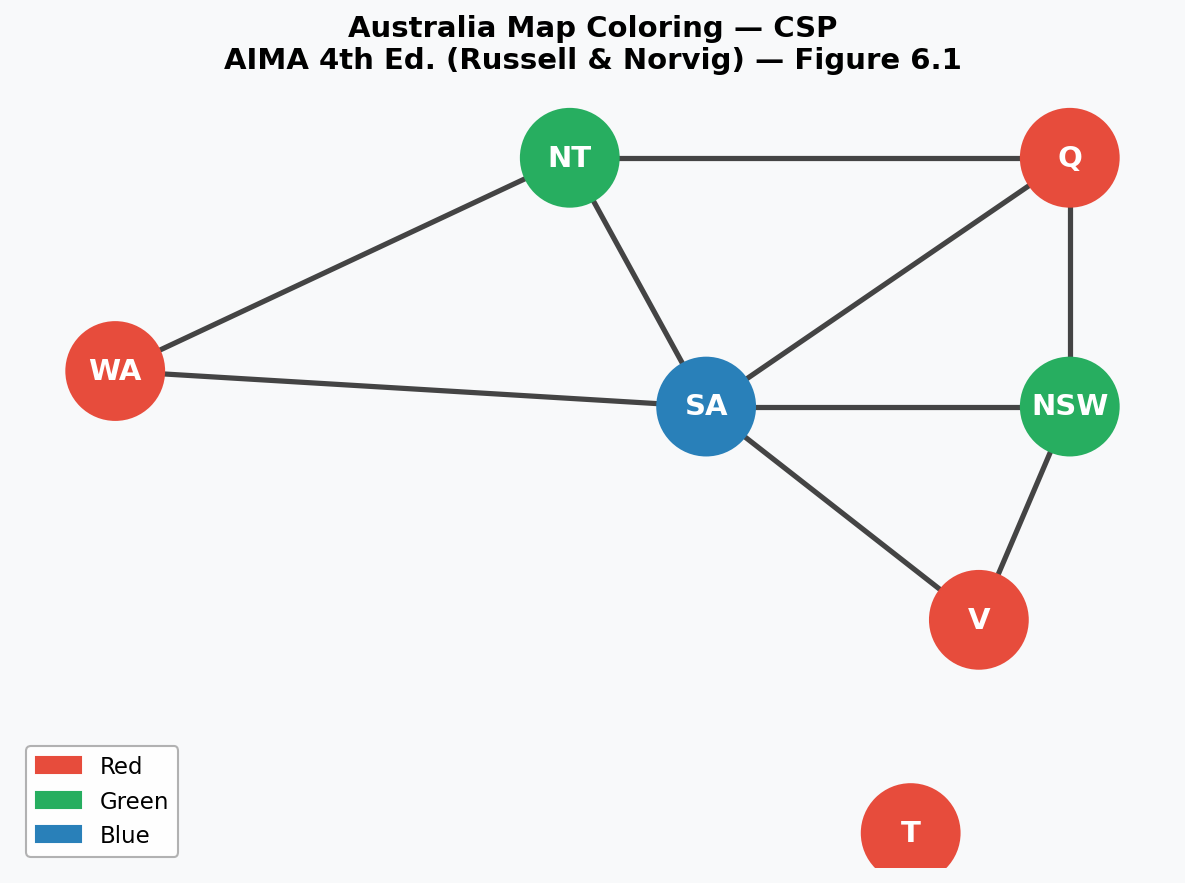
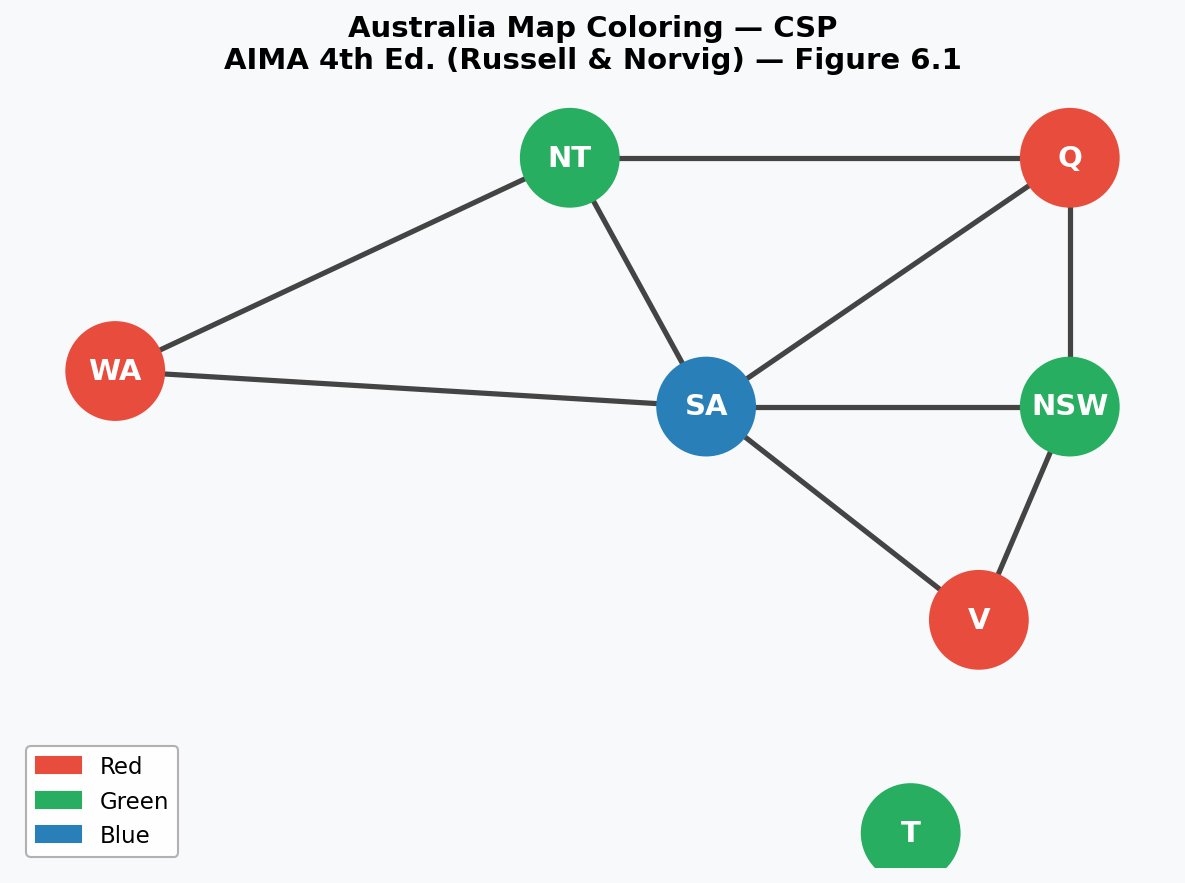
Updated CSP code

Changed region(s): [[0.7181, 0.8867, 0.8118, 1.0]]

diff --git a/01_australia_map_coloring.py b/01_australia_map_coloring.py
@@ -125,6 +125,9 @@ def solve_australia():
     csp      = CSP(variables, domains, neighbors, ne_constraint)
     solution = csp.backtracking_search()
 
+    # Force Tasmania to be Green (safe — no neighbors)
+    solution['T'] = 'Green'
+
     print("\nSolution:")
     for v in variables:
         print(f"  {v:5s} → {solution[v]}")
